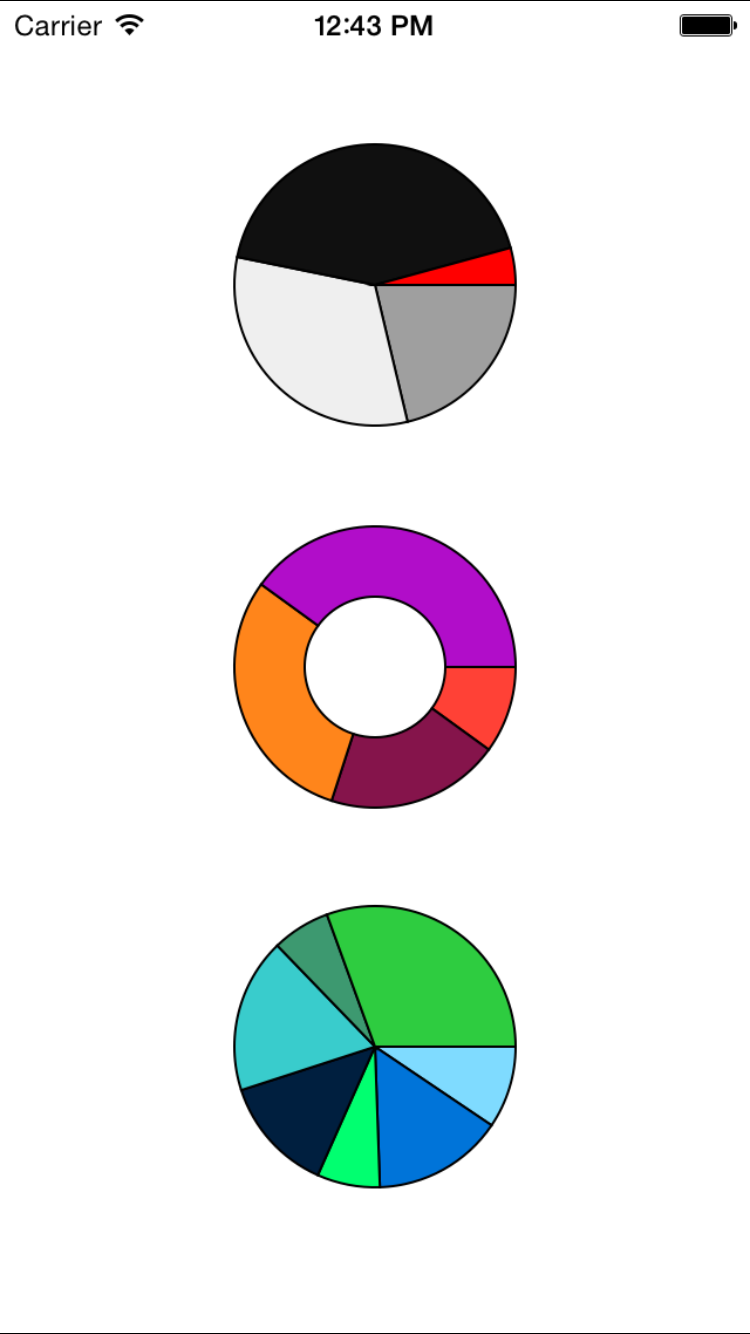
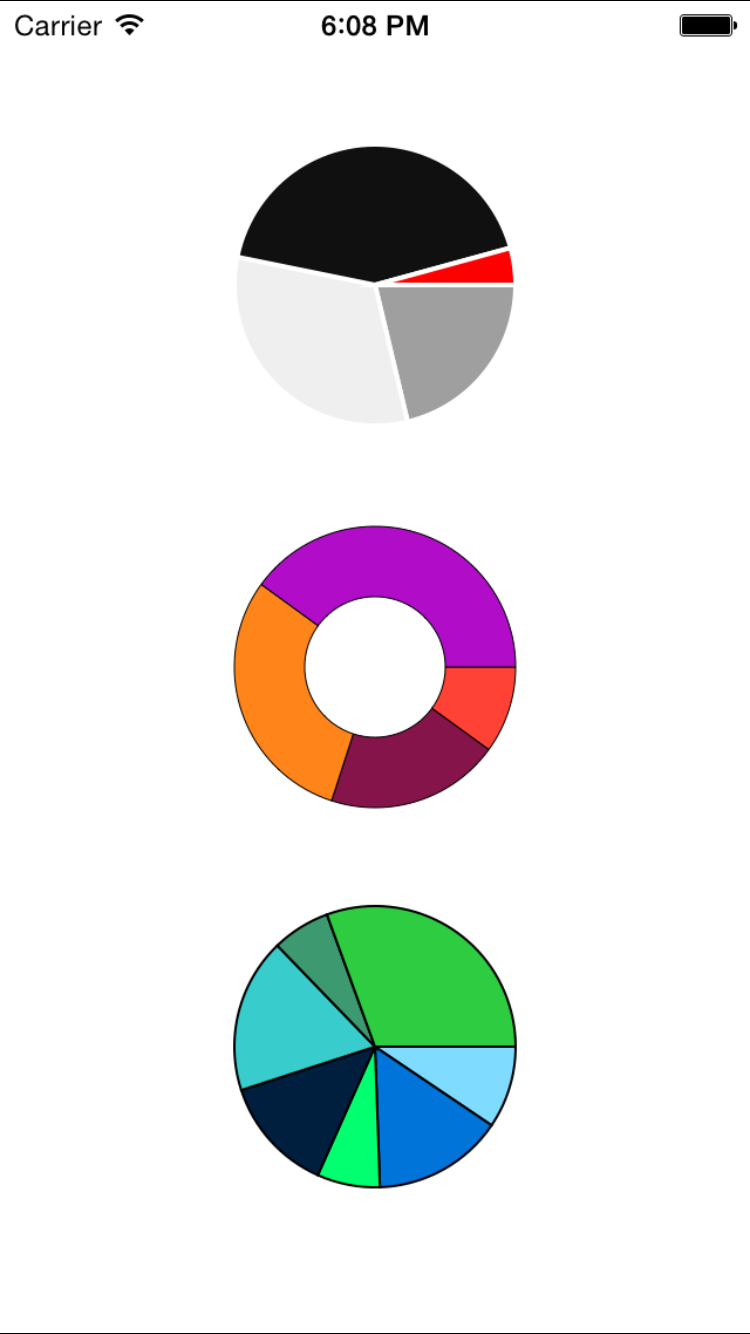
Configurable stroke color and width. Fixes #1

diff --git a/Pod/Classes/FFCPieChart.m b/Pod/Classes/FFCPieChart.m
@@ -71,6 +71,31 @@
              ];
 }
 
+- (instancetype)initWithFrame:(CGRect)frame
+{
+    self = [super initWithFrame:frame];
+    if (self == nil) {
+        return nil;
+    }
+    [self setup];
+    return self;
+}
+
+- (instancetype)initWithCoder:(NSCoder *)aDecoder
+{
+    self = [super initWithCoder:aDecoder];
+    if (self == nil) {
+        return nil;
+    }
+    [self setup];
+    return self;
+}
+
+- (void)setup
+{
+    _strokeWidth = 1;
+}
+
 - (void)setDataItems:(NSArray *)dataItems
 {
     _dataItems = [dataItems copy];
@@ -87,8 +112,8 @@
     
     CGContextRef ctx = UIGraphicsGetCurrentContext();
     
-    CGContextSetLineWidth(ctx, 1);
-    CGContextSetStrokeColorWithColor(ctx, [UIColor blackColor].CGColor);
+    CGContextSetLineWidth(ctx, self.strokeWidth);
+    CGContextSetStrokeColorWithColor(ctx, (self.strokeColor?:[UIColor blackColor]).CGColor);
     
     CGPoint center = CGPointMake(CGRectGetMidX(self.bounds), CGRectGetMidY(self.bounds));
     CGSize size = CGRectInset(self.bounds, stroke/2., stroke/2.).size;

diff --git a/Example/FFCPieChart/FFCViewController.m b/Example/FFCPieChart/FFCViewController.m
@@ -40,10 +40,13 @@
     
     self.topPieChart.palette = [FFCPieChart grayPalette];
     [self.topPieChart setDataItems:@[@2, @3, @4, dataItem]];
+    self.topPieChart.strokeColor = [UIColor whiteColor];
+    self.topPieChart.strokeWidth = 2;
     
     self.pieChart.palette = [FFCPieChart warmPalette];
     [self.pieChart setDataItems:@[@1, @2, @3, @4]];
     self.pieChart.pieHole = 0.5;
+    self.pieChart.strokeWidth = 0.5;
     
     [self.bottomPieChart setDataItems:@[@17, @27, @13, @24, @32, @12, @55]];
 }

diff --git a/Pod/Classes/FFCPieChart.h b/Pod/Classes/FFCPieChart.h
@@ -51,6 +51,20 @@ IB_DESIGNABLE
 @property (nonatomic, copy) NSArray *palette;
 
 /**
+ The stroke color of the pieChart.
+ 
+ Defaults to @p nil. When @p nil, appears as black.
+ */
+@property (nonatomic, copy) UIColor *strokeColor;
+
+/**
+ The stroke width of the pieChart.
+ 
+ Defaults to 1
+ */
+@property (nonatomic, assign) CGFloat strokeWidth;
+
+/**
  An array of objects loosely conforming to @p FFCPieChartDataItem. A data item
  need only respond to the @p doubleValue selector.
  

diff --git a/README.md b/README.md
@@ -11,11 +11,17 @@ Pie charts in iOS.
 // self.topPieChart = [[FFCPieChart alloc] initWithFrame:...];
 // self.middlePieChart = etc.
 
-self.topPieChart.palette = [FFCPieChart grayPalette];
-[self.topPieChart setDataItems:@[@2, @3, @4]];
+DataItem *dataItem = [[DataItem alloc] initWithColor:[UIColor redColor] value:0.4];
 
-self.middlePieChart.palette = [FFCPieChart warmPalette];
-[self.middlePieChart setDataItems:@[@1, @2, @3, @4]];
+self.topPieChart.palette = [FFCPieChart grayPalette];
+[self.topPieChart setDataItems:@[@2, @3, @4, dataItem]];
+self.topPieChart.strokeColor = [UIColor whiteColor];
+self.topPieChart.strokeWidth = 2;
+
+self.pieChart.palette = [FFCPieChart warmPalette];
+[self.pieChart setDataItems:@[@1, @2, @3, @4]];
+self.pieChart.pieHole = 0.5;
+self.pieChart.strokeWidth = 0.5;
 
 [self.bottomPieChart setDataItems:@[@17, @27, @13, @24, @32, @12, @55]];
 ```
